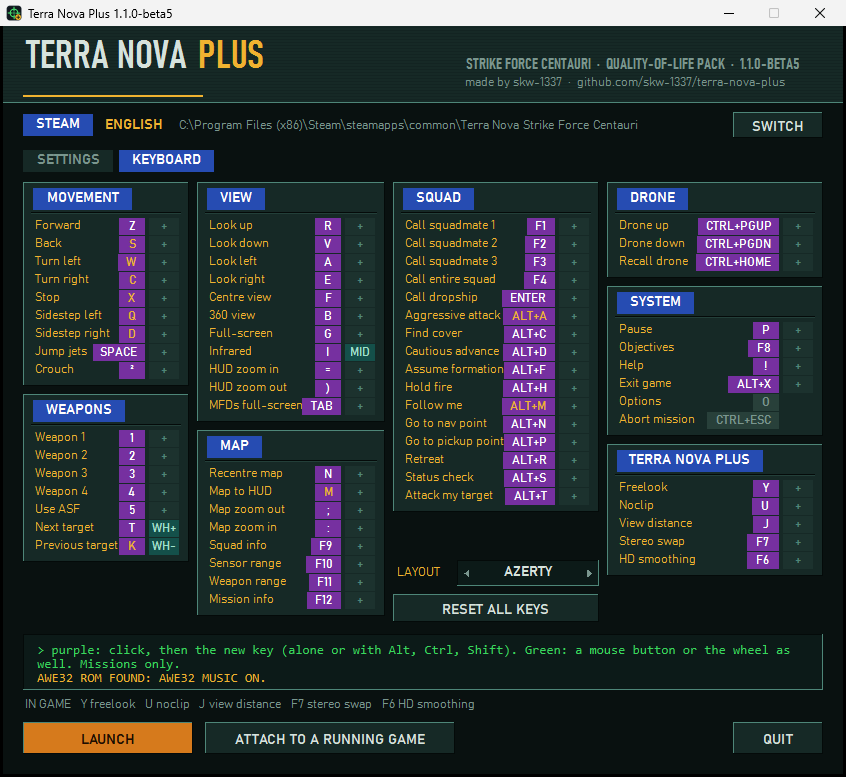
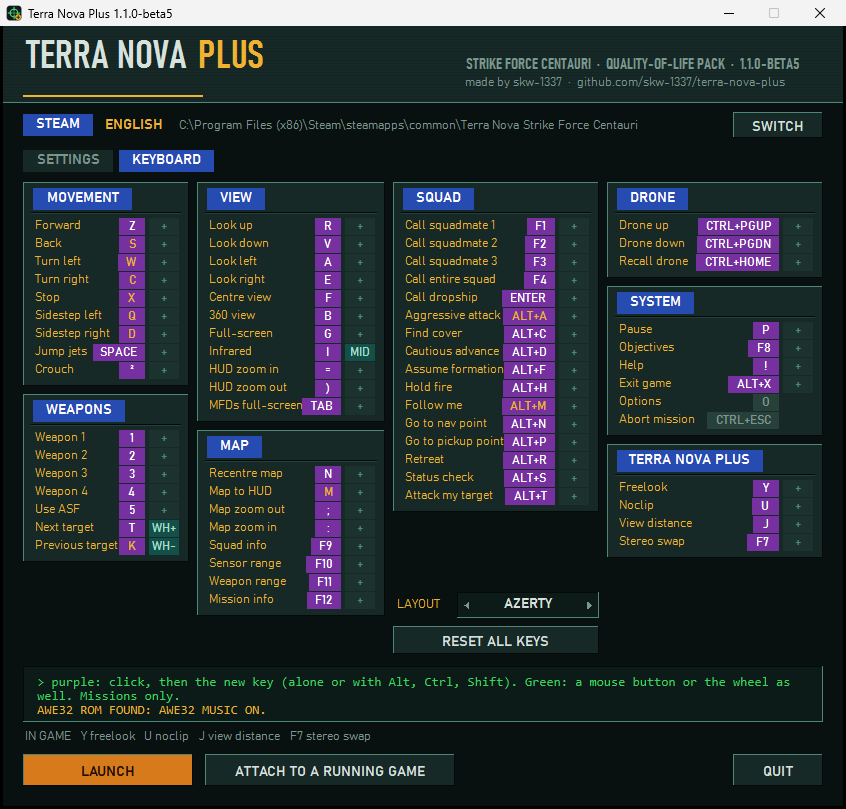
README: scaling option, no more HD smoothing

Changed region(s): [[0.0, 0.0, 0.9835, 0.8031], [0.0307, 0.834, 0.9527, 0.9575], [0.8913, 0.9266, 0.9527, 0.9575]]

diff --git a/README.md b/README.md
@@ -11,6 +11,7 @@ One small external tool. Pick your options in its window, click Launch, and the 
 | **View distance** | `J` | `NORMAL` / `FAR` / `MAX`: the fog is pushed back, the horizon opens up. |
 | **Display** | — | `ORIGINAL`, `320x400` (the engine's best resolution, applied in every mission: the game normally only keeps it in save files) or `HD`: the 3D drawn at twice the width, 640x400 (848x480 in true 16:9). |
 | **Widescreen 16:9** | — | `STRETCHED`: DOSBox stretches the picture to 16:9 and the tool widens the field of view to match (correct proportions in the 3D, the cockpit is stretched). `TRUE` (HD, beta): the 3D is drawn in a real 16:9 picture (848 columns, sharper than STRETCHED), the cockpit and HUD are stretched to the full width like in STRETCHED. |
+| **Scaling** | — | `SHARP` (default): DOSBox draws with OpenGL and its sharp shader, every pixel the same size on screen, less shimmer when the view moves. `GAME'S OWN`: the edition's setting. |
 | **Field of view** | — | `GAME` / `90` / `100` / `110` degrees for the 3D view, cockpit and full view, at every zoom level (the game: 84.5). The small cockpit cameras keep theirs. Works in 4:3 and in 16:9. |
 | **Terrain and object distance** | — | More ground detail far away, and scenery, units and buildings drawn farther. |
 | **Keyboard** | — | Every game command on the key you want, layout presets (WASD, ZQSD...), mouse buttons and wheel. |
@@ -56,7 +57,6 @@ This is a big one. I rewrote the launcher and added a bunch of things people ask
 ### HD 640x400
 - The 3D view is drawn at twice the width, in the cockpit and in the full-screen view (`G` in game).
 - With Widescreen TRUE the screen is 848x480 and the 3D view 848 columns wide (still 199 rows in the cockpit: the height is the game's 400-line screen, one row in five doubled to reach 480).
-- `F6` toggles the 3D smoothing (`F12` before beta 5: that one is the game's mission info key). Since beta 4 it only smooths real edges (hill against sky, water against land, objects), horizontally and vertically, and leaves the grain of the textures alone. It costs a few fps.
 - Works with the GOG and Steam games, French and English. Not in the demos yet.
 
 ### Terrain detail
@@ -117,7 +117,7 @@ The game folder is detected automatically (**GOG** registry and **Steam** librar
 - **Freelook** switches off by itself in the options screen (`O`), with `Esc` and when the mission ends; press `Y` again when you are back. Switch it off to click the cockpit buttons with the mouse.
 - **Noclip**: land before switching it off — switching it off in mid-air means a free fall.
 - **Widescreen STRETCHED** is anamorphic: the engine draws 320 pixels across, so the cockpit and the menus are stretched a little; the 3D keeps correct proportions. **TRUE** needs HD and the game started from the launcher. The cockpit and HUD are stretched like in STRETCHED (`wide_hud = 0` keeps them at their own proportions in the middle, with black above and below the 3D on the sides), the menus are stretched too, and the mouse is captured when you click in the window (DOSBox releases it with its usual key).
-- Keys are **physical key positions**: `Y`, `U`, `J` are the same keys on QWERTY and AZERTY. To change one, click its purple key in the launcher and press the new key (`Esc` cancels), or edit `TNPlus.ini`. Freelook is on `Y`, so the game's own `Y` (previous target) moves to `K`. The HD smoothing moved from `F12` (the game's mission info) to `F6`. An ini still on the old keys is moved once.
+- Keys are **physical key positions**: `Y`, `U`, `J` are the same keys on QWERTY and AZERTY. To change one, click its purple key in the launcher and press the new key (`Esc` cancels), or edit `TNPlus.ini`. Freelook is on `Y`, so the game's own `Y` (previous target) moves to `K`. An ini still on the old keys is moved once.
 
 ## Settings (`TNPlus.ini`)
 
@@ -134,7 +134,7 @@ The game folder is detected automatically (**GOG** registry and **Steam** librar
 | `invert_y` | `0` | `1` = inverted vertical look |
 | `noclip_speed` | `15` | game units per second (a walking PBA does about 2) |
 | `key_freelook`, `key_noclip`, `key_distance` | `15`, `16`, `24` | **physical key scancodes** (hex): `15` = Y, `16` = U, `24` = J, `29` = key left of 1, `3B`–`44` = F1–F10 |
-| `key_smoothing`, `key_stereo` | `40`, `41` | F6, F7 |
+| `key_stereo` | `41` | F7 |
 | `keys_layout` | — | the LAYOUT preset picked last |
 | `mouse_<command>` | — | mouse binds: `MID`, `M4`, `M5`, `WHEELUP`, `WHEELDOWN` (e.g. `mouse_tnext = WHEELUP`, `mouse_freelook = MID`) |
 | `key_game_<command>` | — | written by the KEYBOARD tab for the game's commands you changed: `[SHIFT+\|CTRL+\|ALT+]scancode`, e.g. `key_game_fwd = 25` |
@@ -145,7 +145,7 @@ The game folder is detected automatically (**GOG** registry and **Steam** librar
 | `cpu_cycles` | `1000000` | DOSBox CPU cycles set at launch, `0` = keep the edition's own setting |
 | `music` | `ROLAND` | `ROLAND`, `FM`, `GAME'S OWN` or `AWE32` (needs `awe32.raw`) |
 | `stereo_fix` | `0` | `1` = swap the Sound Blaster stereo back in DOSBox |
-| `hd_smoothing` | `1` | HD smoothing at start (`F6` in game) |
+| `scaling` | `SHARP` | `SHARP` (OpenGL, sharp shader: pixels of equal size) or `GAME'S OWN` |
 | `launch` | `GAME` | `GAME`, `DEMO 1` or `DEMO 2` |
 | `sound` | `1` | `0` = no beeps |
 | `game_dir` | *(auto)* | game folder, if auto-detection does not find it |
